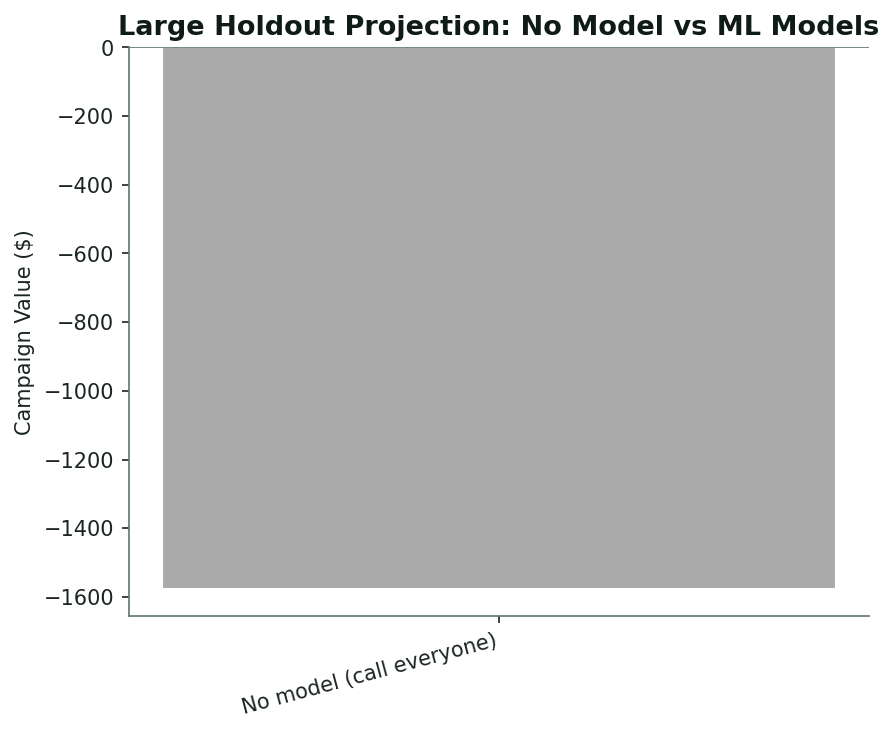
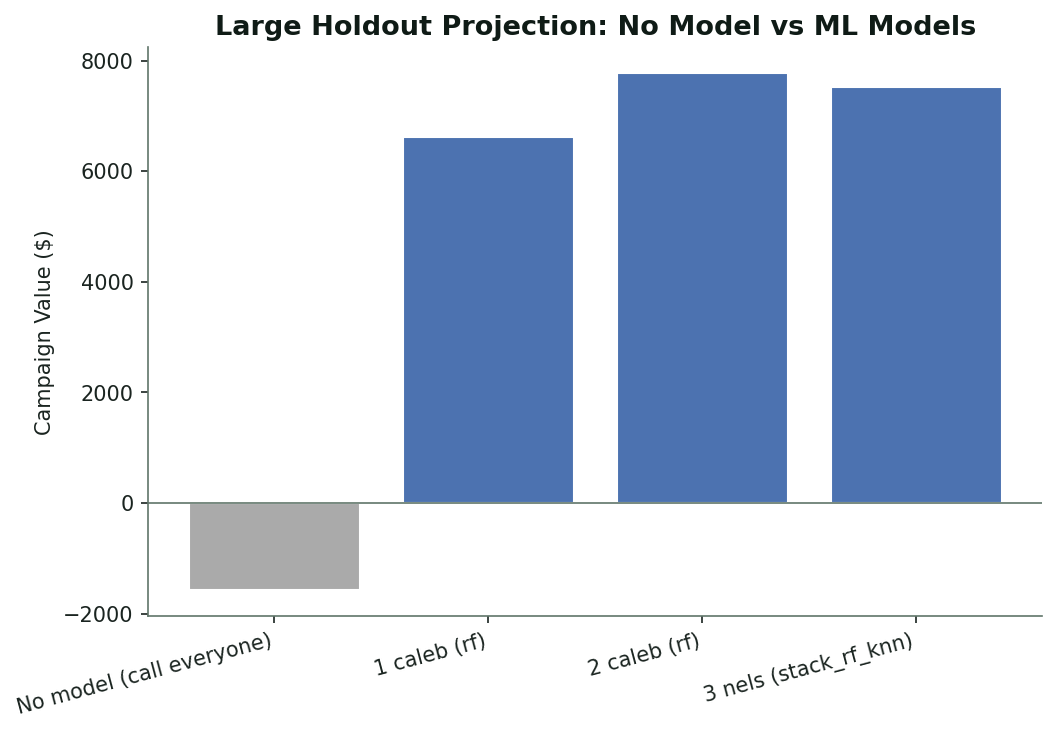
Add normalization function for holdout keys and update projections in analysis

diff --git a/module_2-bank/visualisation/campaign_analysis.py b/module_2-bank/visualisation/campaign_analysis.py
@@ -44,6 +44,20 @@ def model_key(path: Path) -> str:
     return inner.split("_holdout-predictions")[0].split("_mini-holdout-predictions")[0]
 
 
+def normalize_holdout_key(path: Path, model_map: dict) -> str | None:
+    """Map alternate holdout filenames to known mini-holdout model keys."""
+    stem = path.stem
+    if stem.startswith("NorthWind_") and stem.endswith("-Module2-predictions"):
+        inner = stem.removeprefix("NorthWind_").removesuffix("-Module2-predictions")
+        if inner in model_map:
+            return inner
+        prefix = f"{inner}_"
+        matches = [key for key in model_map.keys() if key.startswith(prefix)]
+        if len(matches) == 1:
+            return matches[0]
+    return None
+
+
 def analyse_historical() -> dict:
     df = pd.read_csv(TRAINING_FILE)
     tp = int((df['y'] == 'yes').sum())
@@ -97,15 +111,22 @@ def project_large_holdout(mini_baseline: dict, mini_models: list[dict]) -> tuple
     projections = []
     for pred_file in sorted(LARGE_PRED_DIR.glob("*.csv")):
         key = model_key(pred_file)
+        label = extract_model_id(pred_file)
         if key not in model_map:
-            continue
+            alt_key = normalize_holdout_key(pred_file, model_map)
+            if alt_key is None:
+                continue
+            key = alt_key
+            label = model_map[key]["label"]
+        else:
+            label = model_map[key]["label"]
         preds = pd.read_csv(pred_file).iloc[:, 0]
         n_calls = int((preds == 1).sum())
         precision = model_map[key]["precision"]
         tp_est = n_calls * precision
         fp_est = n_calls * (1 - precision)
         projections.append({
-            "label": extract_model_id(pred_file), "total_calls": n_calls,
+            "label": label, "total_calls": n_calls,
             "tp_est": tp_est, "fp_est": fp_est,
             "precision_used": precision,
             "value_projected": campaign_value(tp_est, fp_est),

diff --git a/module_2-bank/visualisation/output/detailed/report.md b/module_2-bank/visualisation/output/detailed/report.md
@@ -78,3 +78,6 @@ Baseline (call everyone): **$-0.38/call** (47 TP, 363 FP)
 | Model | Calls | TP (est) | FP (est) | Value (projected) |
 |-------|------:|---------:|---------:|------------------:|
 | No model (call everyone) | 4,119 | 472 | 3647 | $-1,576.47 |
+| 1 caleb (rf) | 1,268 | 305 | 963 | $6,628.40 |
+| 2 caleb (rf) | 798 | 272 | 526 | $7,774.86 |
+| 3 nels (stack_rf_knn) | 484 | 228 | 256 | $7,529.40 |
